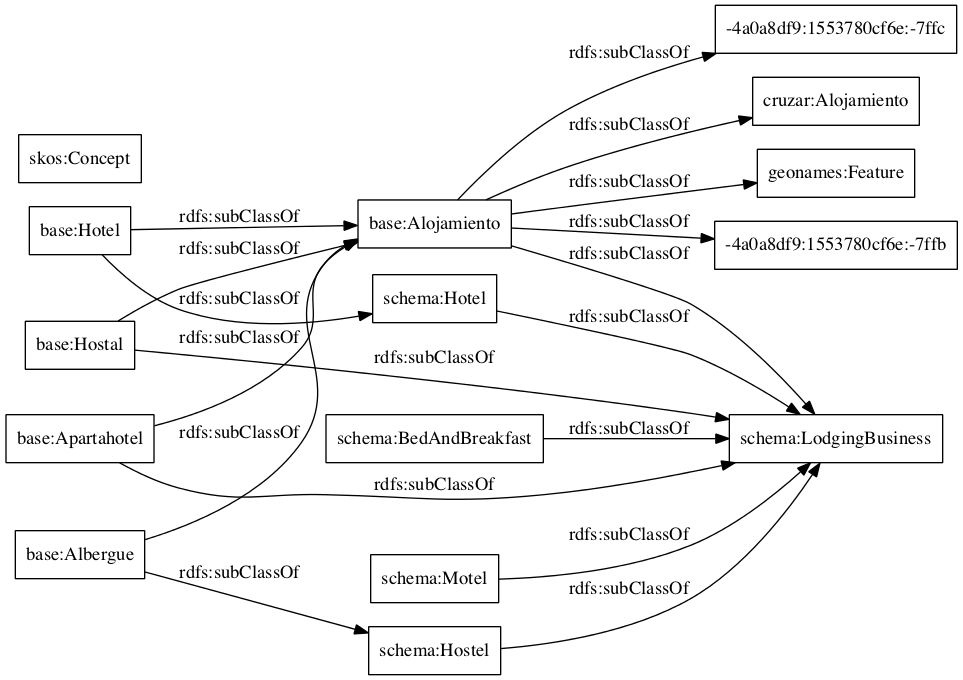
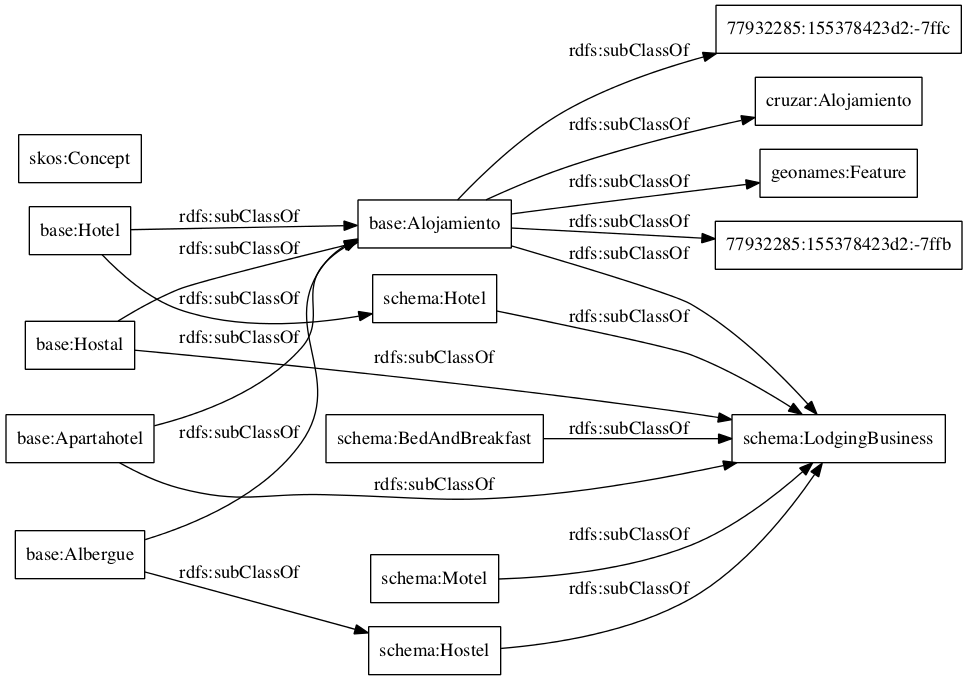
automated change

diff --git a/OnToology/alo.owl/evaluation/oopsEval.html b/OnToology/alo.owl/evaluation/oopsEval.html
@@ -91,7 +91,7 @@ P08. Missing annotations<span style="float: right;">11 cases detected. <span cla
 </div>
 <div id="collapse2" class="panel-collapse collapse">
 <div class="panel-body">
-<p>Ontology terms lack annotations properties. This kind of properties improves the ontology understanding and usability from a user point of view.</p><p>This pitfall affects to the following ontology elements: </p><ul><li><a href="http://www.w3.org/2004/02/skos/core#Concept" target="_blank">http://www.w3.org/2004/02/skos/core#Concept</a></li><li><a href="http://schema.org/Hotel" target="_blank">http://schema.org/Hotel</a></li><li><a href="http://schema.org/LodgingBusiness" target="_blank">http://schema.org/LodgingBusiness</a></li><li><a href="http://schema.org/Hostel" target="_blank">http://schema.org/Hostel</a></li><li><a href="http://geonames.org/ontology#featureClass" target="_blank">http://geonames.org/ontology#featureClass</a></li><li><a href="http://schema.org/BedAndBreakfast" target="_blank">http://schema.org/BedAndBreakfast</a></li><li><a href="http://schema.org/Motel" target="_blank">http://schema.org/Motel</a></li><li><a href="http://idi.fundacionctic.org/cruzar/turismo#Alojamiento" target="_blank">http://idi.fundacionctic.org/cruzar/turismo#Alojamiento</a></li><li><a href="http://purl.org/dc/terms/type" target="_blank">http://purl.org/dc/terms/type</a></li><li><a href="http://geonames.org/ontology#featureCode" target="_blank">http://geonames.org/ontology#featureCode</a></li><li><a href="http://geonames.org/ontology#Feature" target="_blank">http://geonames.org/ontology#Feature</a></li></ul></div>
+<p>Ontology terms lack annotations properties. This kind of properties improves the ontology understanding and usability from a user point of view.</p><p>This pitfall affects to the following ontology elements: </p><ul><li><a href="http://schema.org/LodgingBusiness" target="_blank">http://schema.org/LodgingBusiness</a></li><li><a href="http://schema.org/Hostel" target="_blank">http://schema.org/Hostel</a></li><li><a href="http://schema.org/Hotel" target="_blank">http://schema.org/Hotel</a></li><li><a href="http://www.w3.org/2004/02/skos/core#Concept" target="_blank">http://www.w3.org/2004/02/skos/core#Concept</a></li><li><a href="http://schema.org/BedAndBreakfast" target="_blank">http://schema.org/BedAndBreakfast</a></li><li><a href="http://geonames.org/ontology#Feature" target="_blank">http://geonames.org/ontology#Feature</a></li><li><a href="http://schema.org/Motel" target="_blank">http://schema.org/Motel</a></li><li><a href="http://purl.org/dc/terms/type" target="_blank">http://purl.org/dc/terms/type</a></li><li><a href="http://geonames.org/ontology#featureClass" target="_blank">http://geonames.org/ontology#featureClass</a></li><li><a href="http://geonames.org/ontology#featureCode" target="_blank">http://geonames.org/ontology#featureCode</a></li><li><a href="http://idi.fundacionctic.org/cruzar/turismo#Alojamiento" target="_blank">http://idi.fundacionctic.org/cruzar/turismo#Alojamiento</a></li></ul></div>
 </div>
 </div>
 <div class="panel panel-default">

diff --git a/OnToology/alo.owl/documentation/sections/crossref-en.html b/OnToology/alo.owl/documentation/sections/crossref-en.html
@@ -105,16 +105,16 @@ This section provides details for each class and property defined by [Ontology N
             <sup class="type-c" title="class">c</sup>
          </dd>
          <dd>
-            <a href="#http://geonames.org/ontology#featureClass" title="http://geonames.org/ontology#featureClass">feature class</a>
-            <sup class="type-op" title="object property">op</sup> 
-            <span class="logic">value</span> 
-            <a href="#http://geonames.org/ontology#S" title="http://geonames.org/ontology#S">s</a>
-         </dd>
-         <dd>
             <a href="#http://geonames.org/ontology#featureCode" title="http://geonames.org/ontology#featureCode">feature code</a>
             <sup class="type-op" title="object property">op</sup> 
             <span class="logic">value</span> 
             <a href="#http://geonames.org/ontology#S.HTL" title="http://geonames.org/ontology#S.HTL">s. h t l</a>
+         </dd>
+         <dd>
+            <a href="#http://geonames.org/ontology#featureClass" title="http://geonames.org/ontology#featureClass">feature class</a>
+            <sup class="type-op" title="object property">op</sup> 
+            <span class="logic">value</span> 
+            <a href="#http://geonames.org/ontology#S" title="http://geonames.org/ontology#S">s</a>
          </dd>
          <dt>has sub-classes</dt>
          <dd>

diff --git a/OnToology/alo.owl/documentation/provenance/provenance-en.html b/OnToology/alo.owl/documentation/provenance/provenance-en.html
@@ -10,7 +10,7 @@
 <h1>Provenance for Vocabulario para la representación de datos sobre alojamiento Documentation (/Users/blakxu/test123/OnToologyTestEnv/temp/ahmad88me@gmail.com/OnToology/alo.owl/documentation)</h1>
 <ul>
 	<li>Ontology created by: :
- Oscar Corcho (Ontology Engineering Group - Universidad Politécnica de Madrid, LocaliData) (null), Miguel Angel García Delgado (Ontology Engineering Group - Universidad Politécnica de Madrid) (null), Víctor Morlán (Ayuntamiento de Zaragoza) (null),</li><li>The ontology documentation was the result of using the <a href="https://github.com/dgarijo/Widoco">Widoco tool</a> (which itself uses <a href="http://www.essepuntato.it/lode/">LODE</a> for generating the crossreference section).</li>
+ Oscar Corcho (Ontology Engineering Group - Universidad Politécnica de Madrid, LocaliData) (), Miguel Angel García Delgado (Ontology Engineering Group - Universidad Politécnica de Madrid) (), Víctor Morlán (Ayuntamiento de Zaragoza) (),</li><li>The ontology documentation was the result of using the <a href="https://github.com/dgarijo/Widoco">Widoco tool</a> (which itself uses <a href="http://www.essepuntato.it/lode/">LODE</a> for generating the crossreference section).</li>
 </ul>
 </div>
 <p>Back to <a href="..\index-en.html">documentation</a>. <a href="provenance-en.ttl">TTL format</a></p></div>

diff --git a/OnToology/alo.owl/documentation/index-en.html b/OnToology/alo.owl/documentation/index-en.html
@@ -32,7 +32,10 @@ function loadHash() {
 <dl><dt>Authors:</dt>
 <dd>Oscar Corcho (Ontology Engineering Group - Universidad Politécnica de Madrid, LocaliData)</dd><dd>Miguel Angel García Delgado (Ontology Engineering Group - Universidad Politécnica de Madrid)</dd><dd>Víctor Morlán (Ayuntamiento de Zaragoza)</dd></dl>
 
-<dl>This work is licensed under a license: <a rel="license" href="http://purl.org/NET/rdflicense/cc-by4.0">Creative Commons CC-BY</a>.</dl>
+<a property="dc:rights" href="http://purl.org/NET/rdflicense/cc-by4.0" rel="license">
+<img src="null" style="border-width:0" alt="License"></img>
+</a>
+<br/><dl>This work is licensed under a license: <a rel="license" href="http://purl.org/NET/rdflicense/cc-by4.0">Creative Commons CC-BY</a>.</dl>
 <span property="dc:license" resource="http://purl.org/NET/rdflicense/cc-by4.0"></span>
 <dl><a href="provenance/provenance-en.html">Click here</a> to see the provenance of this page.</dl><hr/>
 </div>
